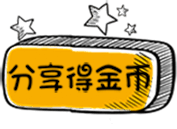
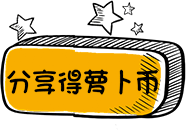
fix url and some

diff --git a/pages/sub_pages/gamePlot/gamePlot.js b/pages/sub_pages/gamePlot/gamePlot.js
@@ -180,7 +180,7 @@ Page({
     if (!this.data.IsGameing) {
       return;
     }
-    if (app.gameData.goldNum >= this.data.CurPlotData.RewardGoldNum) { //钱足够
+    if (app.gameData.goldNum >= 30) { //钱足够
       let fitArr = [];
       for (let i = 0; i < this.data.ChoosedFontArr.length; i++) {
         let fontObj = this.data.ChoosedFontArr[i];
@@ -214,7 +214,7 @@ Page({
       }
       //这个字可以提示的话
       if (tipFontObj != undefined) {
-        app.gameData.goldNum -= this.data.CurPlotData.RewardGoldNum;
+        app.gameData.goldNum -= 30;
 
         let tipCmpObj = this.data.ChoosedFontArr[fotnIdx];
         tipCmpObj.str = tipStr;
@@ -438,14 +438,14 @@ Page({
               NetReprot.ShareOnce();
               //不等结果。 自己计算成功    
               wx.showToast({
-                title: "获得萝卜币+5",
+                title: "获得萝卜币+20",
                 image: "../../images/Img_DinaLB.png",
                 duration: 2e3
               });
               app.gameData.shareNumToday++;
-              app.gameData.goldNum += 5;
+              app.gameData.goldNum += 20;
               dataCenter.SaveShareData(app.gameData, app.globalData);
-              this.setData({
+              curPage.setData({
                 Gold: app.gameData.goldNum
               });
 

diff --git a/pages/index/index.js b/pages/index/index.js
@@ -67,12 +67,12 @@ Page({
           if (app.gameData.shareNumToday < 5) {
             //不等结果。 自己计算成功    
             wx.showToast({
-              title: "获得萝卜币+5",
+              title: "获得萝卜币+20",
               image: "../images/Img_DinaLB.png",
               duration: 2e3
             });
             app.gameData.shareNumToday++;
-            app.gameData.goldNum += 5;
+            app.gameData.goldNum += 20;
             dataCenter.SaveShareData(app.gameData, app.globalData);
   
           }

diff --git a/utils/NetReport.js b/utils/NetReport.js
@@ -3,7 +3,7 @@ const app = getApp()
 const dataCenter = require('./dataCenter.js');
 
 // var serverURL = "http://192.168.10.152:8081/";
-var serverURL = "http://121.201.23.222:8081/";
+var serverURL = "https://www.lqwkj.com:8081/";
 // var serverURL = "http://47.100.200.222:8081/";
 
 
